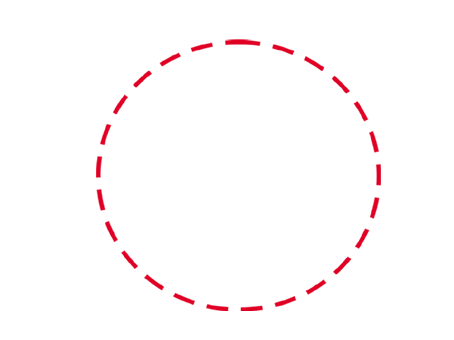
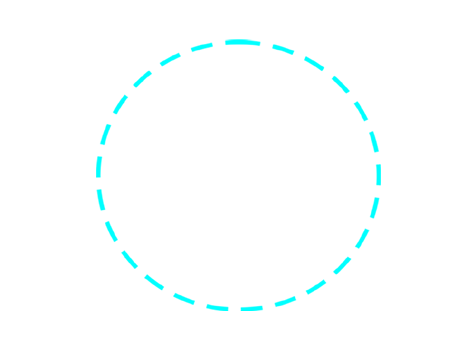
option to turn off/on help mode (show available moves for clicked piece)
- also, game instructions
- help buttons with other features to implement

diff --git a/src/main/gui/GUI.java b/src/main/gui/GUI.java
@@ -179,10 +179,16 @@ public class GUI extends JFrame{
         JMenuBar menuBar = new JMenuBar();
         JMenu fileMenu = new JMenu("File");
         JMenuItem restartItem = new JMenuItem("Restart");
-        JMenuItem helpItem = new JMenuItem("Help");
         JMenuItem quitItem = new JMenuItem("Quit");
         JMenu editMenu = new JMenu("Edit");
         JMenuItem undoItem = new JMenuItem("Undo");
+        JMenu viewMenu = new JMenu("View");
+        JRadioButtonMenuItem viewItemHelpMode = new JRadioButtonMenuItem("Help mode");
+        viewItemHelpMode.setSelected(main.gui.Settings.helpMode);
+        JMenu helpMenu = new JMenu("Help");
+        JMenuItem rulesItem = new JMenuItem("Game Rules");
+        JMenuItem helpItemHint = new JMenuItem("Hint!");
+        JMenuItem helpItemMovables = new JMenuItem("Show movable pieces");
 
         // add action listeners
         quitItem.addActionListener(new ActionListener() {
@@ -197,10 +203,10 @@ public class GUI extends JFrame{
                 onRestartClick();
             }
         });
-        helpItem.addActionListener(new ActionListener() {
+        rulesItem.addActionListener(new ActionListener() {
             @Override
             public void actionPerformed(ActionEvent actionEvent) {
-                onHelpClick();
+                onRulesClick();
             }
         });
         undoItem.addActionListener(new ActionListener() {
@@ -209,16 +215,35 @@ public class GUI extends JFrame{
                 onUndoClick();
             }
         });
+        viewItemHelpMode.addActionListener(new ActionListener() {
+            @Override
+            public void actionPerformed(ActionEvent actionEvent) {
+                onHelpModeClick();
+            }
+        });
+
         // add components to menu bar
-        fileMenu.add(restartItem); fileMenu.add(helpItem); fileMenu.add(quitItem);
-        menuBar.add(fileMenu);
+        fileMenu.add(restartItem);
+        fileMenu.add(quitItem);
         editMenu.add(undoItem);
+        viewMenu.add(viewItemHelpMode);
+        helpMenu.add(helpItemHint);
+        helpMenu.add(helpItemMovables);
+        helpMenu.add(rulesItem);
+        menuBar.add(fileMenu);
         menuBar.add(editMenu);
+        menuBar.add(viewMenu);
+        menuBar.add(helpMenu);
         this.setJMenuBar(menuBar);
     }
 
     /***************************************************************/
     /*********************** ON CLICK METHODS **********************/
+
+    private void onHelpModeClick(){
+        main.gui.Settings.helpMode = !main.gui.Settings.helpMode;
+        System.out.println("help mode: " + main.gui.Settings.helpMode);
+    }
 
     /**
      * Occurs when user clicks on checker piece
@@ -287,9 +312,6 @@ public class GUI extends JFrame{
         });
     }
 
-
-
-
     /**
      * Open dialog for restarting the program.
      */
@@ -333,14 +355,33 @@ public class GUI extends JFrame{
     /**
      * Open help dialog.
      */
-    private void onHelpClick(){
+    private void onRulesClick(){
 
-        int n = JOptionPane.showOptionDialog(this,
-                "\n 1. Click a piece \n " +
-                       "2. Click where you want to move",
-                "Instructions",
-                JOptionPane.DEFAULT_OPTION,
-                JOptionPane.INFORMATION_MESSAGE, null, null, null);
+        String message =
+                "1. Moves are allowed only on the dark squares, so pieces always move diagonally. Single " +
+                "pieces are always limited to forward moves (toward the opponent). <br /> <br /> " +
+
+                "2. A piece making a non-capturing move (not involving a jump) may move only one square. <br /> <br />"+
+
+                "3. A piece making a capturing move (a jump) leaps over one of the opponent's pieces, landing in a " +
+                "straight diagonal line on the other side. Only one piece may be captured in a single jump; however, " +
+                "multiple jumps are allowed during a single turn. <br /> <br />" +
+
+                        "4. When a piece is captured, it is removed from the board. <br /> <br />" +
+                "5. If a player is able to make a capture, there is no option; the jump must be made. If more than " +
+                   "one capture is available, the player is free to choose whichever he or she prefers. <br /> <br />" +
+
+                "6. When a piece reaches the furthest row from the player who controls that piece, it is crowned and " +
+                        "becomes a king. <br /> <br />" +
+                "7. Kings are limited to moving diagonally but may move both forward and backward. <br /> <br />" +
+                "8. Kings may combine jumps in several directions, forward and backward, on the same turn. Single " +
+                        "pieces may shift direction diagonally during a multiple capture turn, but must always jump " +
+                        "forward (toward the opponent).";
+
+        JOptionPane.showMessageDialog(this,
+                "<html><body><p style='width: 400px;'>"+message+"</p></body></html>",
+                "",
+                JOptionPane.INFORMATION_MESSAGE );
     }
 
     /**

diff --git a/src/main/gui/GhostButton.java b/src/main/gui/GhostButton.java
@@ -27,7 +27,13 @@ public class GhostButton extends JButton{
     private void setIcon(){
         BufferedImage buttonIcon = null;
         try{
-            buttonIcon = ImageIO.read(new File("images/dottedcircle2.png"));
+            if(Settings.helpMode){
+                buttonIcon = ImageIO.read(new File("images/dottedcircle.png"));
+
+            }
+            else{
+                buttonIcon = ImageIO.read(new File("images/dottedcircleblack.png"));
+            }
         }
         catch (IOException e){
             System.out.println(e.toString());

diff --git a/src/main/gui/Settings.java b/src/main/gui/Settings.java
@@ -4,7 +4,8 @@ import main.game.Player;
 
 public class Settings{
 
-    public static Colour AIcolour = Colour.BLACK; // Note: starting player gets black pieces
+    public static Colour AIcolour = Colour.BLACK; // Note: starting player gets white pieces
+    public static boolean helpMode = true;
     public static int AiMinPauseDurationInMs = 800;
     public static int squareSize = 80;
     public static int checkerWidth = 5*squareSize/6;
